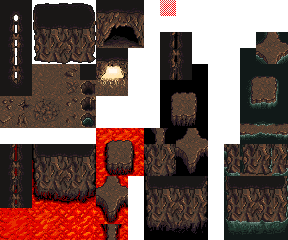
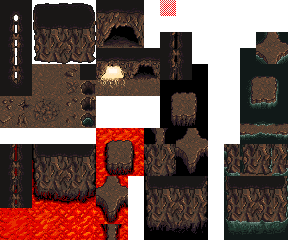
map modification }tiled object spawn point eand exit rect

Changed region(s): [[0.4375, 0.175, 0.5625, 0.4083]]

diff --git a/src/engine/game.py b/src/engine/game.py
@@ -32,8 +32,8 @@ class Game:
 
         # On initialise le joueur
         self.player = Player()
-        map_properties = self.map_manager.get_map("map").properties
-        self.player.pos = pygame.Vector2(map_properties["X_spawn_coord"], map_properties["Y_spawn_coord"])
+        spawn_point = self.map_manager.get_map("map").get_object_by_name("spawnpoint_leftcorner")
+        self.player.pos = pygame.Vector2(spawn_point.x/16,spawn_point.y/16)
 
         # on teleporte la caméra au joueur pour ne pas avoir un effet de slide au démarrage
         self.camera_view.move(1, self.player.pos, False)
@@ -54,6 +54,9 @@ class Game:
 
         # On instancie et initialise le gestionnaire de combat (important)
         self.battle_manager = Battle_manager(self.battle_ui)
+        
+        exit_rect = self.map_manager.get_map("map").get_object_by_name("final_boss_and_end_gate")
+        self.exit_rect = pygame.Rect(exit_rect.x,exit_rect.y,exit_rect.width,exit_rect.height)
 
         # L'horloge permet à pygame de limiter la framerate du jeu, c'est purement graphique
         # on s'en sert aussi pour récupérer l'intervalle de temps (dt) entre deux frames,
